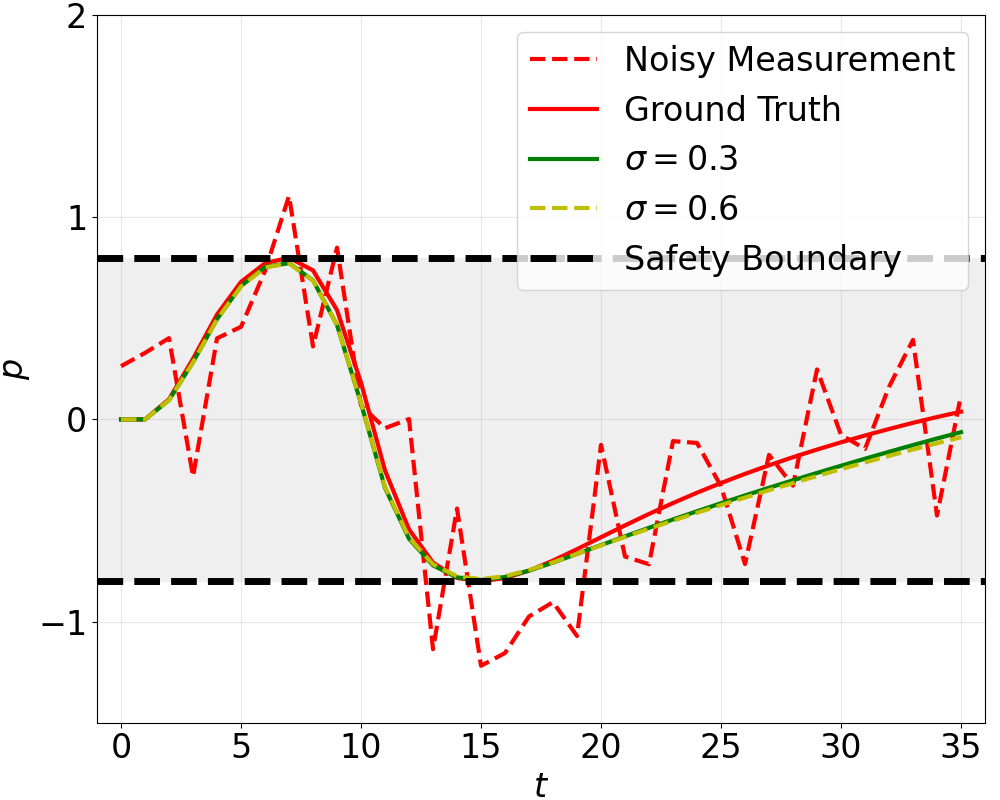
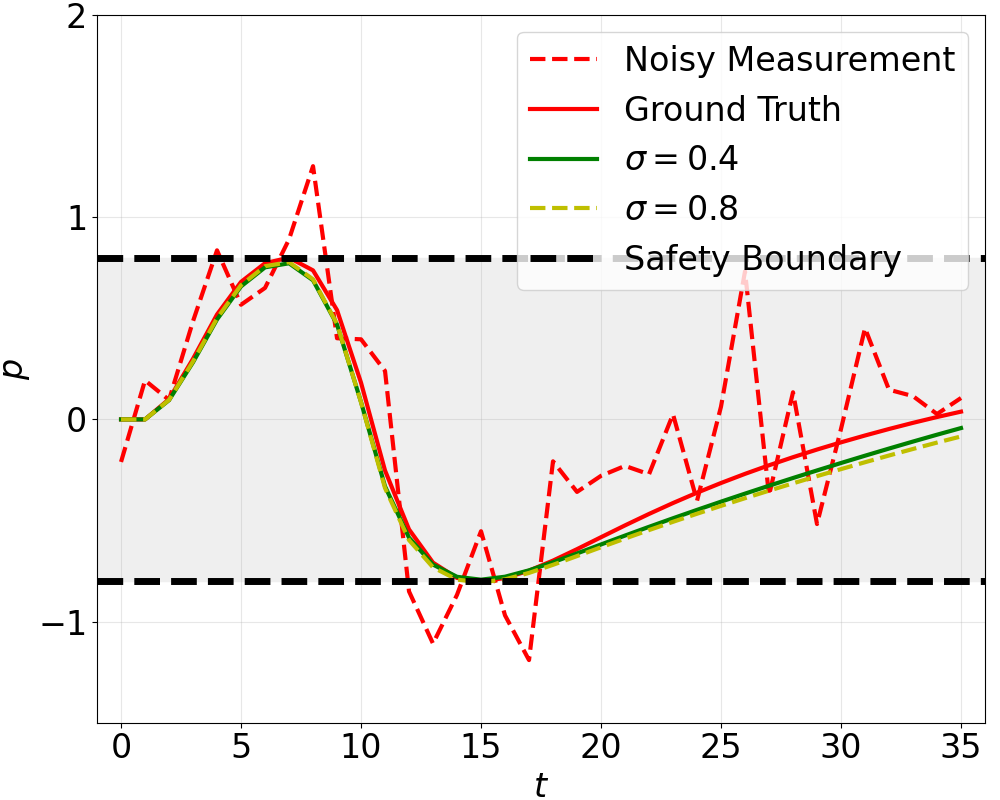
Update

diff --git a/examples/cartpole/violations.py b/examples/cartpole/violations.py
@@ -19,25 +19,25 @@ SOCIL_state = SOCIL_results['state'][-1][:,0]
 OCIL_control = OCIL_results['control'][-1]
 OCIL_state = OCIL_results['state'][-1][:,0]
 
-results_file = f'examples/cartpole/data/results/SOCIL03.mat'
-SOCIL03_results = sio.loadmat(results_file)
-SOCIL03_control = SOCIL03_results['control'][-1]
-SOCIL03_state = SOCIL03_results['state'][-1][:,0]
+results_file = f'examples/cartpole/data/results/SOCIL04.mat'
+SOCIL04_results = sio.loadmat(results_file)
+SOCIL04_control = SOCIL04_results['control'][-1]
+SOCIL04_state = SOCIL04_results['state'][-1][:,0]
 
-results_file = f'examples/cartpole/data/results/SOCIL06.mat'
-SOCIL06_results = sio.loadmat(results_file)
-SOCIL06_control = SOCIL06_results['control'][-1]
-SOCIL06_state = SOCIL06_results['state'][-1][:,0]
+results_file = f'examples/cartpole/data/results/SOCIL08.mat'
+SOCIL08_results = sio.loadmat(results_file)
+SOCIL08_control = SOCIL08_results['control'][-1]
+SOCIL08_state = SOCIL08_results['state'][-1][:,0]
 
-results_file = f'examples/cartpole/data/results/OCIL03.mat'
-OCIL03_results = sio.loadmat(results_file)
-OCIL03_control = OCIL03_results['control'][-1]
-OCIL03_state = OCIL03_results['state'][-1][:,0]
+results_file = f'examples/cartpole/data/results/OCIL04.mat'
+OCIL04_results = sio.loadmat(results_file)
+OCIL04_control = OCIL04_results['control'][-1]
+OCIL04_state = OCIL04_results['state'][-1][:,0]
 
-results_file = f'examples/cartpole/data/results/OCIL06.mat'
-OCIL06_results = sio.loadmat(results_file)
-OCIL06_control = OCIL06_results['control'][-1]
-OCIL06_state = OCIL06_results['state'][-1][:,0]
+results_file = f'examples/cartpole/data/results/OCIL08.mat'
+OCIL08_results = sio.loadmat(results_file)
+OCIL08_control = OCIL08_results['control'][-1]
+OCIL08_state = OCIL08_results['state'][-1][:,0]
 
 horizon = len(demo_control)
 
@@ -79,78 +79,78 @@ print('OCIL_control_max_violation = ', OCIL_control_max_violation/u_max)
 print('OCIL_state_violations = ', OCIL_state_violations/horizon)
 print('OCIL_state_max_violation = ', OCIL_state_max_violation/x_max)
 
-SOCIL03_control_violations = 0
-SOCIL03_control_max_violation = 0
-SOCIL03_state_violations = 0
-SOCIL03_state_max_violation = 0
+SOCIL04_control_violations = 0
+SOCIL04_control_max_violation = 0
+SOCIL04_state_violations = 0
+SOCIL04_state_max_violation = 0
 for i in range(horizon):
-    if abs(SOCIL03_control[i]) > u_max:
-        SOCIL03_control_violations += 1
-        if abs(SOCIL03_control[i]) - u_max > SOCIL03_control_max_violation:
-            SOCIL03_control_max_violation = abs(SOCIL03_control[i]) - u_max
-    if abs(SOCIL03_state[i+1]) > x_max:
-        SOCIL03_state_violations += 1
-        if abs(SOCIL03_state[i+1]) - x_max > SOCIL03_state_max_violation:
-            SOCIL03_state_max_violation = abs(SOCIL03_state[i+1]) - x_max
+    if abs(SOCIL04_control[i]) > u_max:
+        SOCIL04_control_violations += 1
+        if abs(SOCIL04_control[i]) - u_max > SOCIL04_control_max_violation:
+            SOCIL04_control_max_violation = abs(SOCIL04_control[i]) - u_max
+    if abs(SOCIL04_state[i+1]) > x_max:
+        SOCIL04_state_violations += 1
+        if abs(SOCIL04_state[i+1]) - x_max > SOCIL04_state_max_violation:
+            SOCIL04_state_max_violation = abs(SOCIL04_state[i+1]) - x_max
 
-print('SOCIL03_control_violations = ', SOCIL03_control_violations/horizon)
-print('SOCIL03_control_max_violation = ', SOCIL03_control_max_violation/u_max)
-print('SOCIL03_state_violations = ', SOCIL03_state_violations/horizon)
-print('SOCIL03_state_max_violation = ', SOCIL03_state_max_violation/x_max)
+print('SOCIL04_control_violations = ', SOCIL04_control_violations/horizon)
+print('SOCIL04_control_max_violation = ', SOCIL04_control_max_violation/u_max)
+print('SOCIL04_state_violations = ', SOCIL04_state_violations/horizon)
+print('SOCIL04_state_max_violation = ', SOCIL04_state_max_violation/x_max)
 
-OCIL03_control_violations = 0
-OCIL03_control_max_violation = 0
-OCIL03_state_violations = 0
-OCIL03_state_max_violation = 0
+OCIL04_control_violations = 0
+OCIL04_control_max_violation = 0
+OCIL04_state_violations = 0
+OCIL04_state_max_violation = 0
 for i in range(horizon):
-    if abs(OCIL03_control[i]) > u_max:
-        OCIL03_control_violations += 1
-        if abs(OCIL03_control[i]) - u_max > OCIL03_control_max_violation:
-            OCIL03_control_max_violation = abs(OCIL03_control[i]) - u_max
-    if abs(OCIL03_state[i+1]) > x_max:
-        OCIL03_state_violations += 1
-        if abs(OCIL03_state[i+1]) - x_max > OCIL03_state_max_violation:
-            OCIL03_state_max_violation = abs(OCIL03_state[i+1]) - x_max
+    if abs(OCIL04_control[i]) > u_max:
+        OCIL04_control_violations += 1
+        if abs(OCIL04_control[i]) - u_max > OCIL04_control_max_violation:
+            OCIL04_control_max_violation = abs(OCIL04_control[i]) - u_max
+    if abs(OCIL04_state[i+1]) > x_max:
+        OCIL04_state_violations += 1
+        if abs(OCIL04_state[i+1]) - x_max > OCIL04_state_max_violation:
+            OCIL04_state_max_violation = abs(OCIL04_state[i+1]) - x_max
 
-print('OCIL03_control_violations = ', OCIL03_control_violations/horizon)
-print('OCIL03_control_max_violation = ', OCIL03_control_max_violation/u_max)
-print('OCIL03_state_violations = ', OCIL03_state_violations/horizon)
-print('OCIL03_state_max_violation = ', OCIL03_state_max_violation/x_max)
+print('OCIL04_control_violations = ', OCIL04_control_violations/horizon)
+print('OCIL04_control_max_violation = ', OCIL04_control_max_violation/u_max)
+print('OCIL04_state_violations = ', OCIL04_state_violations/horizon)
+print('OCIL04_state_max_violation = ', OCIL04_state_max_violation/x_max)
 
-SOCIL06_control_violations = 0
-SOCIL06_control_max_violation = 0
-SOCIL06_state_violations = 0
-SOCIL06_state_max_violation = 0
+SOCIL08_control_violations = 0
+SOCIL08_control_max_violation = 0
+SOCIL08_state_violations = 0
+SOCIL08_state_max_violation = 0
 for i in range(horizon):
-    if abs(SOCIL06_control[i]) > u_max:
-        SOCIL06_control_violations += 1
-        if abs(SOCIL06_control[i]) - u_max > SOCIL06_control_max_violation:
-            SOCIL06_control_max_violation = abs(SOCIL06_control[i]) - u_max
-    if abs(SOCIL06_state[i+1]) > x_max:
-        SOCIL06_state_violations += 1
-        if abs(SOCIL06_state[i+1]) - x_max > SOCIL06_state_max_violation:
-            SOCIL06_state_max_violation = abs(SOCIL06_state[i+1]) - x_max
+    if abs(SOCIL08_control[i]) > u_max:
+        SOCIL08_control_violations += 1
+        if abs(SOCIL08_control[i]) - u_max > SOCIL08_control_max_violation:
+            SOCIL08_control_max_violation = abs(SOCIL08_control[i]) - u_max
+    if abs(SOCIL08_state[i+1]) > x_max:
+        SOCIL08_state_violations += 1
+        if abs(SOCIL08_state[i+1]) - x_max > SOCIL08_state_max_violation:
+            SOCIL08_state_max_violation = abs(SOCIL08_state[i+1]) - x_max
 
-print('SOCIL06_control_violations = ', SOCIL06_control_violations/horizon)
-print('SOCIL06_control_max_violation = ', SOCIL06_control_max_violation/u_max)
-print('SOCIL06_state_violations = ', SOCIL06_state_violations/horizon)
-print('SOCIL06_state_max_violation = ', SOCIL06_state_max_violation/x_max)
+print('SOCIL08_control_violations = ', SOCIL08_control_violations/horizon)
+print('SOCIL08_control_max_violation = ', SOCIL08_control_max_violation/u_max)
+print('SOCIL08_state_violations = ', SOCIL08_state_violations/horizon)
+print('SOCIL08_state_max_violation = ', SOCIL08_state_max_violation/x_max)
 
-OCIL06_control_violations = 0
-OCIL06_control_max_violation = 0
-OCIL06_state_violations = 0
-OCIL06_state_max_violation = 0
+OCIL08_control_violations = 0
+OCIL08_control_max_violation = 0
+OCIL08_state_violations = 0
+OCIL08_state_max_violation = 0
 for i in range(horizon):
-    if abs(OCIL06_control[i]) > u_max:
-        OCIL06_control_violations += 1
-        if abs(OCIL06_control[i]) - u_max > OCIL06_control_max_violation:
-            OCIL06_control_max_violation = abs(OCIL06_control[i]) - u_max
-    if abs(OCIL06_state[i+1]) > x_max:
-        OCIL06_state_violations += 1
-        if abs(OCIL06_state[i+1]) - x_max > OCIL06_state_max_violation:
-            OCIL06_state_max_violation = abs(OCIL06_state[i+1]) - x_max
+    if abs(OCIL08_control[i]) > u_max:
+        OCIL08_control_violations += 1
+        if abs(OCIL08_control[i]) - u_max > OCIL08_control_max_violation:
+            OCIL08_control_max_violation = abs(OCIL08_control[i]) - u_max
+    if abs(OCIL08_state[i+1]) > x_max:
+        OCIL08_state_violations += 1
+        if abs(OCIL08_state[i+1]) - x_max > OCIL08_state_max_violation:
+            OCIL08_state_max_violation = abs(OCIL08_state[i+1]) - x_max
 
-print('OCIL06_control_violations = ', OCIL06_control_violations/horizon)
-print('OCIL06_control_max_violation = ', OCIL06_control_max_violation/u_max)
-print('OCIL06_state_violations = ', OCIL06_state_violations/horizon)
-print('OCIL06_state_max_violation = ', OCIL06_state_max_violation/x_max)
+print('OCIL08_control_violations = ', OCIL08_control_violations/horizon)
+print('OCIL08_control_max_violation = ', OCIL08_control_max_violation/u_max)
+print('OCIL08_state_violations = ', OCIL08_state_violations/horizon)
+print('OCIL08_state_max_violation = ', OCIL08_state_max_violation/x_max)

diff --git a/examples/cartpole/plot.py b/examples/cartpole/plot.py
@@ -190,27 +190,27 @@ axs.legend(['Demonstration', 'Safe OCIL', 'OCIL', 'Safety Boundary'], fontsize=2
 plt.show()
 
 
-results_file = f'examples/cartpole/data/results/SOCIL03.mat'
-SOCIL03_results = sio.loadmat(results_file)
+results_file = f'examples/cartpole/data/results/SOCIL04.mat'
+SOCIL04_results = sio.loadmat(results_file)
 
-SOCIL03_control = SOCIL03_results['control'][-1]
-SOCIL03_state = SOCIL03_results['state'][-1][:,0]
-SOCIL03_demo_original = SOCIL03_results['demo_state_original'][:,0]
-SOCIL03_demo = SOCIL03_results['demo_state'][:,0]
+SOCIL04_control = SOCIL04_results['control'][-1]
+SOCIL04_state = SOCIL04_results['state'][-1][:,0]
+SOCIL04_demo_original = SOCIL04_results['demo_state_original'][:,0]
+SOCIL04_demo = SOCIL04_results['demo_state'][:,0]
 
-results_file = f'examples/cartpole/data/results/SOCIL06.mat'
-SOCIL06_results = sio.loadmat(results_file)
+results_file = f'examples/cartpole/data/results/SOCIL08.mat'
+SOCIL08_results = sio.loadmat(results_file)
 
-SOCIL06_control = SOCIL06_results['control'][-1]
-SOCIL06_state = SOCIL06_results['state'][-1][:,0]
-t_control06 = np.arange(0, len(SOCIL06_control))
-t_state06 = np.arange(0, len(SOCIL06_state))
+SOCIL08_control = SOCIL08_results['control'][-1]
+SOCIL08_state = SOCIL08_results['state'][-1][:,0]
+t_control08 = np.arange(0, len(SOCIL08_control))
+t_state08 = np.arange(0, len(SOCIL08_state))
 
 fig, axs = plt.subplots(1, 1, figsize=(10, 8))
 plt.plot(t_control, demo_control, 'r--', linewidth=3)
 # plt.plot(t_control, SOCIL_control, 'b--', linewidth=3)
-plt.plot(t_control, SOCIL03_control, 'g-', linewidth=3)
-plt.plot(t_control06, SOCIL06_control, 'y--', linewidth=3)
+plt.plot(t_control, SOCIL04_control, 'g-', linewidth=3)
+plt.plot(t_control08, SOCIL08_control, 'y--', linewidth=3)
 plt.axhline(y=5, color='k', linestyle='--', linewidth=5)
 plt.axhline(y=-5, color='k', linestyle='--', linewidth=5)
 # plt.plot(t_control, SOCIL_control, 'b--', linewidth=3)
@@ -225,16 +225,16 @@ plt.xticks(fontsize=24)
 plt.yticks(fontsize=24)
 axs.set_xlim([-1,35])
 plt.tight_layout()
-plt.legend(['Demonstration', fr'$\sigma=0.3$', fr'$\sigma=0.6$', 'Safety Boundary'], fontsize=24)
+plt.legend(['Demonstration', fr'$\sigma=0.4$', fr'$\sigma=0.8$', 'Safety Boundary'], fontsize=24)
 
 
 fig, axs = plt.subplots(1, 1, figsize=(10, 8))
 
-axs.plot(t_state, SOCIL03_demo, 'r--', linewidth=3)
-axs.plot(t_state, SOCIL03_demo_original, 'r-', linewidth=3)
+axs.plot(t_state, SOCIL04_demo, 'r--', linewidth=3)
+axs.plot(t_state, SOCIL04_demo_original, 'r-', linewidth=3)
 # axs.plot(t_state, SOCIL_state, 'b--', linewidth=3)
-axs.plot(t_state, SOCIL03_state, 'g-', linewidth=3)
-axs.plot(t_state06, SOCIL06_state, 'y--', linewidth=3)
+axs.plot(t_state, SOCIL04_state, 'g-', linewidth=3)
+axs.plot(t_state08, SOCIL08_state, 'y--', linewidth=3)
 plt.axhline(y=0.8, color='k', linestyle='--', linewidth=5)
 plt.axhline(y=-0.8, color='k', linestyle='--', linewidth=5)
 # axs.plot(t_state, SOCIL_state, 'b--', linewidth=3)
@@ -249,6 +249,6 @@ plt.yticks(fontsize=24)
 plt.gca().yaxis.set_major_locator(MultipleLocator(1))
 axs.set_xlim([-1,36])
 axs.set_ylim([-1.5,2])
-axs.legend(['Noisy Measurement', 'Ground Truth', fr'$\sigma=0.3$', fr'$\sigma=0.6$', 'Safety Boundary'], fontsize=24)
+axs.legend(['Noisy Measurement', 'Ground Truth', fr'$\sigma=0.4$', fr'$\sigma=0.8$', 'Safety Boundary'], fontsize=24)
 
 plt.show()
